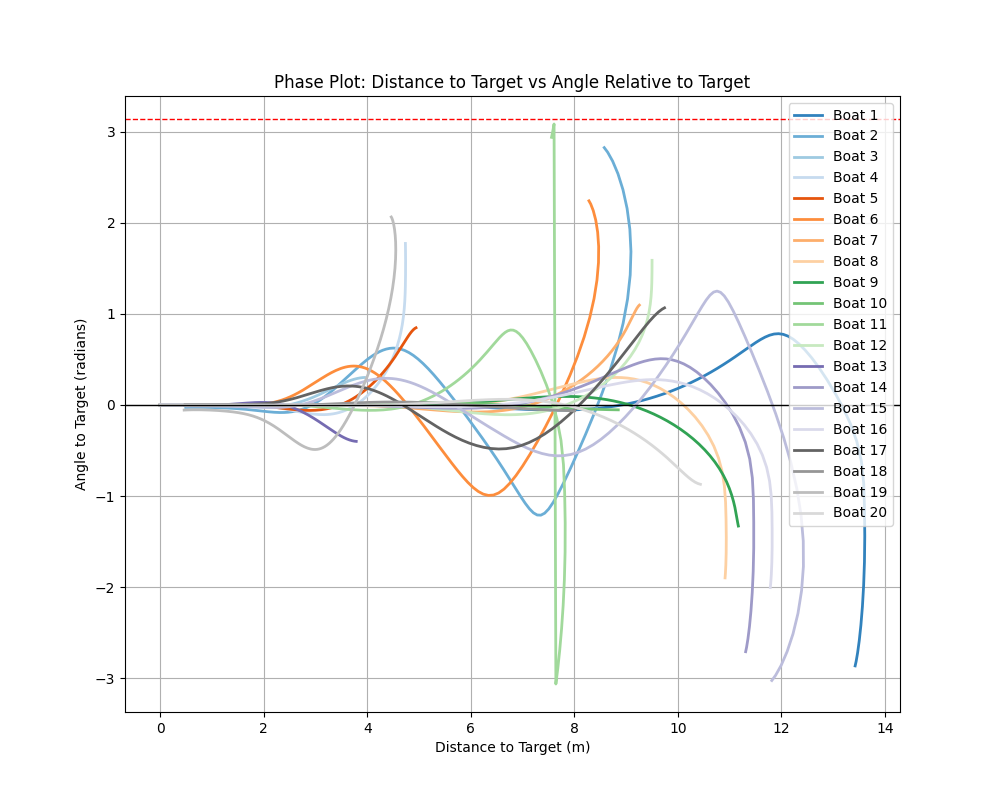
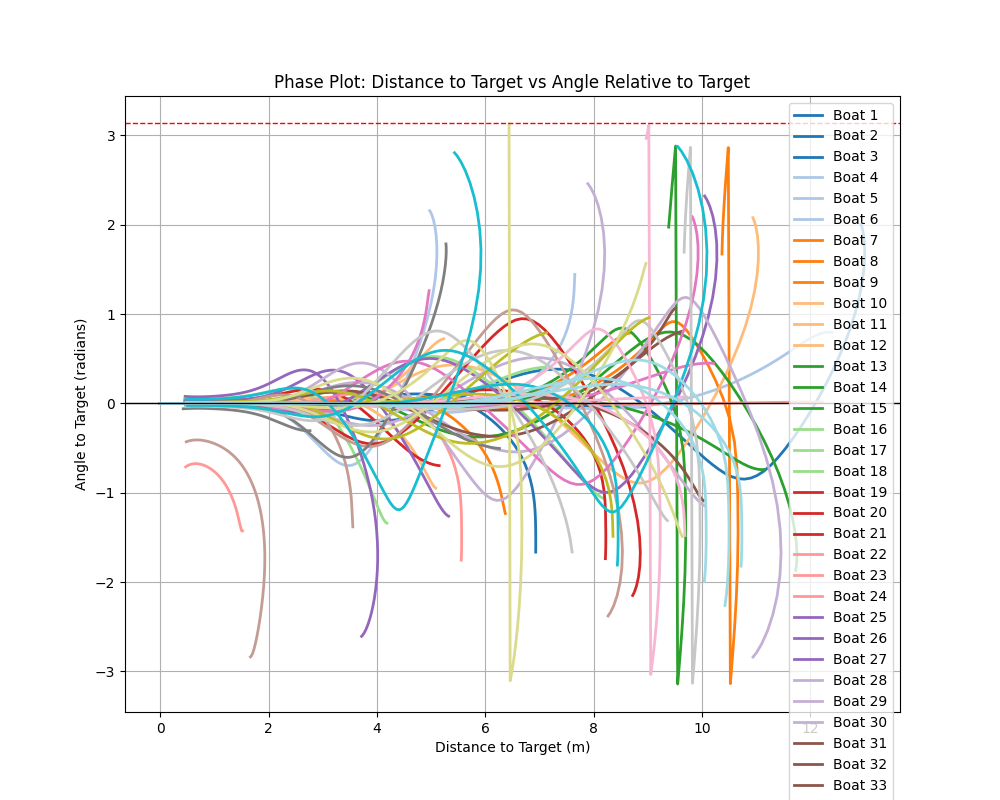
Change color map, change number of generated boats

diff --git a/Project 1 Boat/simulator/visualization.py b/Project 1 Boat/simulator/visualization.py
@@ -18,8 +18,9 @@ class BoatVisualizer:
         self.control_limits = control_limits
         self.boat_types = boat_types
         self.num_boats = len(boat_types)
-        self.colors = plt.cm.tab20c.colors
-
+        # cmap = plt.cm.viridis  # You can replace with any continuous colormap
+        # norm = Normalize(vmin=0, vmax=len(self.boat_types))  # Normalize to the number of boats
+        self.colors = plt.cm.tab20(np.linspace(0, 1, len(self.boat_types)))
         self.norms = {
             'differential': Normalize(0, control_limits['differential']),
             'steerable': Normalize(0, control_limits['steerable'][0])
@@ -41,7 +42,7 @@ class BoatVisualizer:
         type_to_color = {}
         for i, boat_type in enumerate(self.boat_types):
             if boat_type not in type_to_color:
-                type_to_color[boat_type] = self.colors[i % len(self.colors)]
+                type_to_color[boat_type] = self.colors[i]
 
         # Save for later use in finalize()
         self.boat_type_legend_handles = [

diff --git a/Project 1 Boat/simulator/main.py b/Project 1 Boat/simulator/main.py
@@ -81,7 +81,7 @@ def generate_random_boats(num_boats, seed=42, goal=(0, 0)):
 
 def main():
     T, dt = 500, 1
-    boat_types, init_states, desired_states = generate_random_boats(20)
+    boat_types, init_states, desired_states = generate_random_boats(60)
     sim = Simulation(T, dt, 'final', boat_types)
     sim.initialize(init_states, desired_states)
     sim.simulate()
